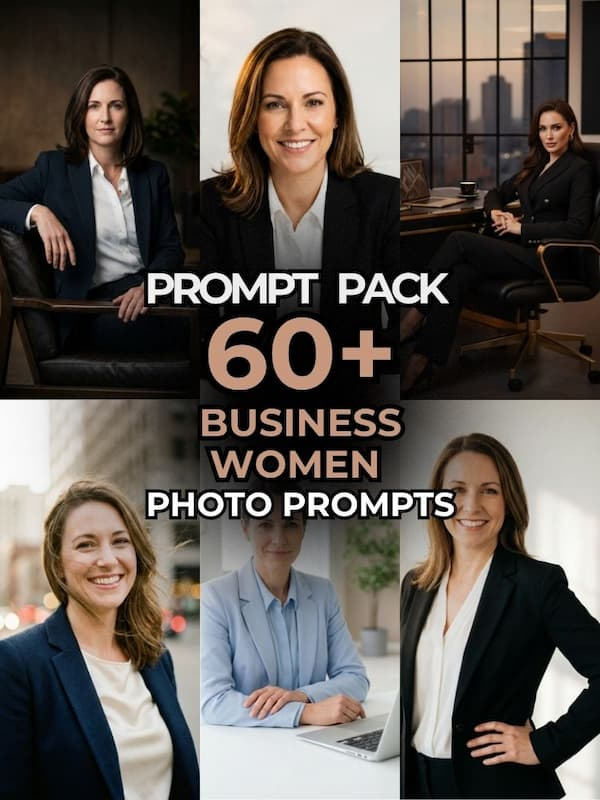
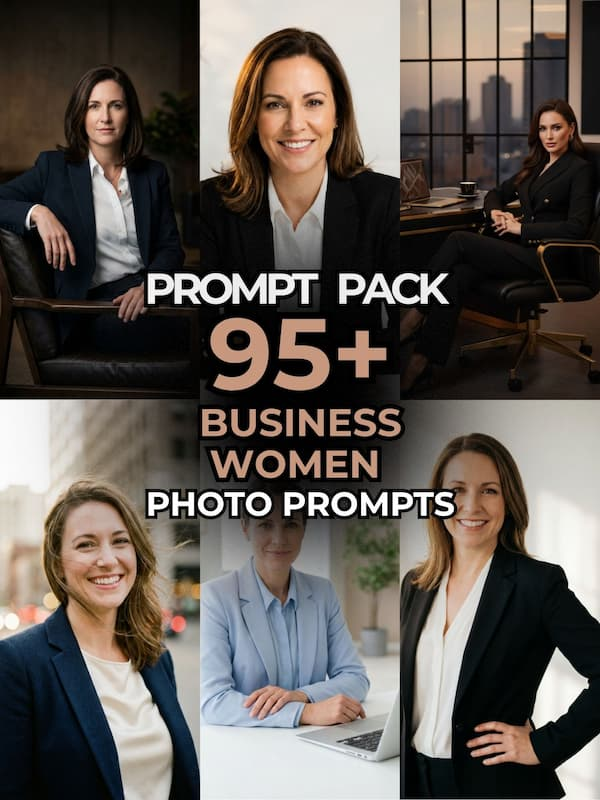
Add images for 30-business-woman-photo-prompts-ai

diff --git a/src/content/promptbooks/index.ts b/src/content/promptbooks/index.ts
@@ -128,12 +128,12 @@ export const PROMTBOOKS: Record<string, PromptBookRaw> = {
     id: 10,
     gumroadSlug: "business-woman-photo-prompts",
     boostyId: "796a8676-c1e8-4ee7-9c6f-0f4ad6c29a48",
-    number: 60,
+    number: 95,
     isGrowing: true,
     tags: ["business", "women"],
     mainCategory: "business",
     type: "pack",
-    images: [2, 5, 6, 7, 8, 9, 10, 11, 12],
+    images: [2, 5, 6, 7, 8, 9, 10, 11, 12, 13],
     og: true,
   },
 